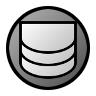
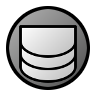
More color scheme work.

Changed region(s): [[0.1875, 0.4062, 0.8125, 0.875], [0.1875, 0.2188, 0.8125, 0.3125]]

diff --git a/source/main/webapp/style.css b/source/main/webapp/style.css
@@ -113,22 +113,22 @@ div#header {
 div#footer {
 	font-size: 70%;
 	padding: 0px 5px 0px 5px;
-	color: value(color-Sa3);
-	/*background: value(color-Sa5);*/
-	border-top: 1px solid value(color-Sa4);
-	/*border-bottom: 1px solid value(color-Sa4);*/
+	color: value(color-C3);
+	background: value(color-C5);
+	border-top: 1px solid value(color-C4);
+	/*border-bottom: 1px solid value(color-C4);*/
 }
 
 div#footer a {
-	color: value(color-Sa3);
+	color: value(color-C3);
 }
 
 /* Bread Crumbs */
 div.breadcrumbs {
 	margin: 0px 0px 0px 0px;
 	padding: 2px 11px 1px 11px;
-	background-color: value(color-Sa5);
-	border-bottom: 1px solid value(color-Sa4);
+	background-color: value(color-C5);
+	border-bottom: 1px solid value(color-C4);
 }
 
 span.crumb {
@@ -136,7 +136,7 @@ span.crumb {
 }
 
 span.crumb>a {
-	color: value(color-Sa3);
+	color: value(color-C3);
 	background-image: url(images/folder.png);
 	background-repeat: no-repeat;
 	background-position: right center;
@@ -146,9 +146,9 @@ span.crumb>a {
 }
 
 span.crumb>a:hover {
-	color: value(color-Sa5);
-	background-color: value(color-Sa3);
-	border: 1px solid value(color-Sa1);
+	color: value(color-C5);
+	background-color: value(color-C3);
+	border: 1px solid value(color-C1);
 }
 
 span.crumb:first-child {
@@ -156,15 +156,15 @@ span.crumb:first-child {
 }
 
 span.crumb:first-child a {
-	color: value(color-Sa3);
+	color: value(color-C3);
 	width: 156px;
 	display: inline-block;
 }
 
 span.crumb:first-child>a:hover {
-	color: value(color-Sa5);
-	background-color: value(color-Sa3);
-	border: 1px solid value(color-Sa1);
+	color: value(color-C5);
+	background-color: value(color-C3);
+	border: 1px solid value(color-C1);
 }
 
 /* Menus */
@@ -203,7 +203,7 @@ div.menuitem:first-child {
 div.separator {
 	color: value(color-Sb2);
 	margin: 10px 0px 1px 0px;
-	padding: 0px 0px 0px 5px;
+	padding: 0px 0px 0px 6px;
 	border-bottom: 1px solid value(color-Sb1);
 	padding-top: 1px;
 	font-weight: bold;
@@ -284,7 +284,7 @@ div.quote {
 
 /* Tickets */
 a.ticket {
-	color: value(color-Sb4);
+	color: value(color-Sb5);
 }
 
 a.ticket:hover {

diff --git a/source/main/java/com/parallelsymmetry/site/ColorScheme.java b/source/main/java/com/parallelsymmetry/site/ColorScheme.java
@@ -12,8 +12,15 @@ public class ColorScheme {
 
 	private Descriptor descriptor;
 
+	private boolean flipSecondary;
+
 	public ColorScheme( String uri ) throws SAXException, IOException, ParserConfigurationException {
+		this( uri, false );
+	}
+
+	public ColorScheme( String uri, boolean flipSecondary ) throws SAXException, IOException, ParserConfigurationException {
 		descriptor = new Descriptor( uri );
+		this.flipSecondary = flipSecondary;
 	}
 
 	public String getPrimary( int index ) {
@@ -21,17 +28,30 @@ public class ColorScheme {
 	}
 
 	public String getSecondaryA( int index ) {
-		return descriptor.getValue( "/palette/colorset[@id='secondary-a']/color[@id='secondary-a-" + index + "']/@rgb" );
+		String path = null;
+		if( flipSecondary ) {
+			path = "/palette/colorset[@id='secondary-b']/color[@id='secondary-b-" + index + "']/@rgb";
+		} else {
+			path = "/palette/colorset[@id='secondary-a']/color[@id='secondary-a-" + index + "']/@rgb";
+		}
+		String value = descriptor.getValue( path );
+		return value == null ? getPrimary( index ) : value;
 	}
 
 	public String getSecondaryB( int index ) {
-		String value = descriptor.getValue( "/palette/colorset[@id='secondary-b']/color[@id='secondary-b-" + index + "']/@rgb" );
+		String path = null;
+		if( flipSecondary ) {
+			path = "/palette/colorset[@id='secondary-a']/color[@id='secondary-a-" + index + "']/@rgb";
+		} else {
+			path = "/palette/colorset[@id='secondary-b']/color[@id='secondary-b-" + index + "']/@rgb";
+		}
+		String value = descriptor.getValue( path );
 		return value == null ? getSecondaryA( index ) : value;
 	}
 
 	public String getComplement( int index ) {
 		String value = descriptor.getValue( "/palette/colorset[@id='complement']/color[@id='complement-" + index + "']/@rgb" );
-		return value == null ? getPrimary( index ) : value;
+		return value == null ? getSecondaryA( index ) : value;
 	}
 
 }

diff --git a/source/main/java/com/parallelsymmetry/site/StyleSheet.java b/source/main/java/com/parallelsymmetry/site/StyleSheet.java
@@ -28,7 +28,7 @@ public class StyleSheet extends HttpServlet {
 
 	public synchronized void doGet( HttpServletRequest request, HttpServletResponse response ) throws ServletException, IOException {
 		if( content == null ) {
-			loadReplacements();
+			loadReplacements( true );
 			content = process( getServletContext(), loadResource( request.getServletPath() ) );
 		}
 
@@ -36,10 +36,10 @@ public class StyleSheet extends HttpServlet {
 		response.getWriter().println( content );
 	}
 
-	private void loadReplacements() throws IOException {
+	private void loadReplacements( boolean flipSecondary ) throws IOException {
 		ColorScheme scheme = null;
 		try {
-			scheme = new ColorScheme( getServletContext().getResource( "/colorscheme.xml" ).toURI().toString() );
+			scheme = new ColorScheme( getServletContext().getResource( "/colorscheme.xml" ).toURI().toString(), flipSecondary );
 		} catch( Exception exception ) {
 			throw new IOException( exception );
 		}
